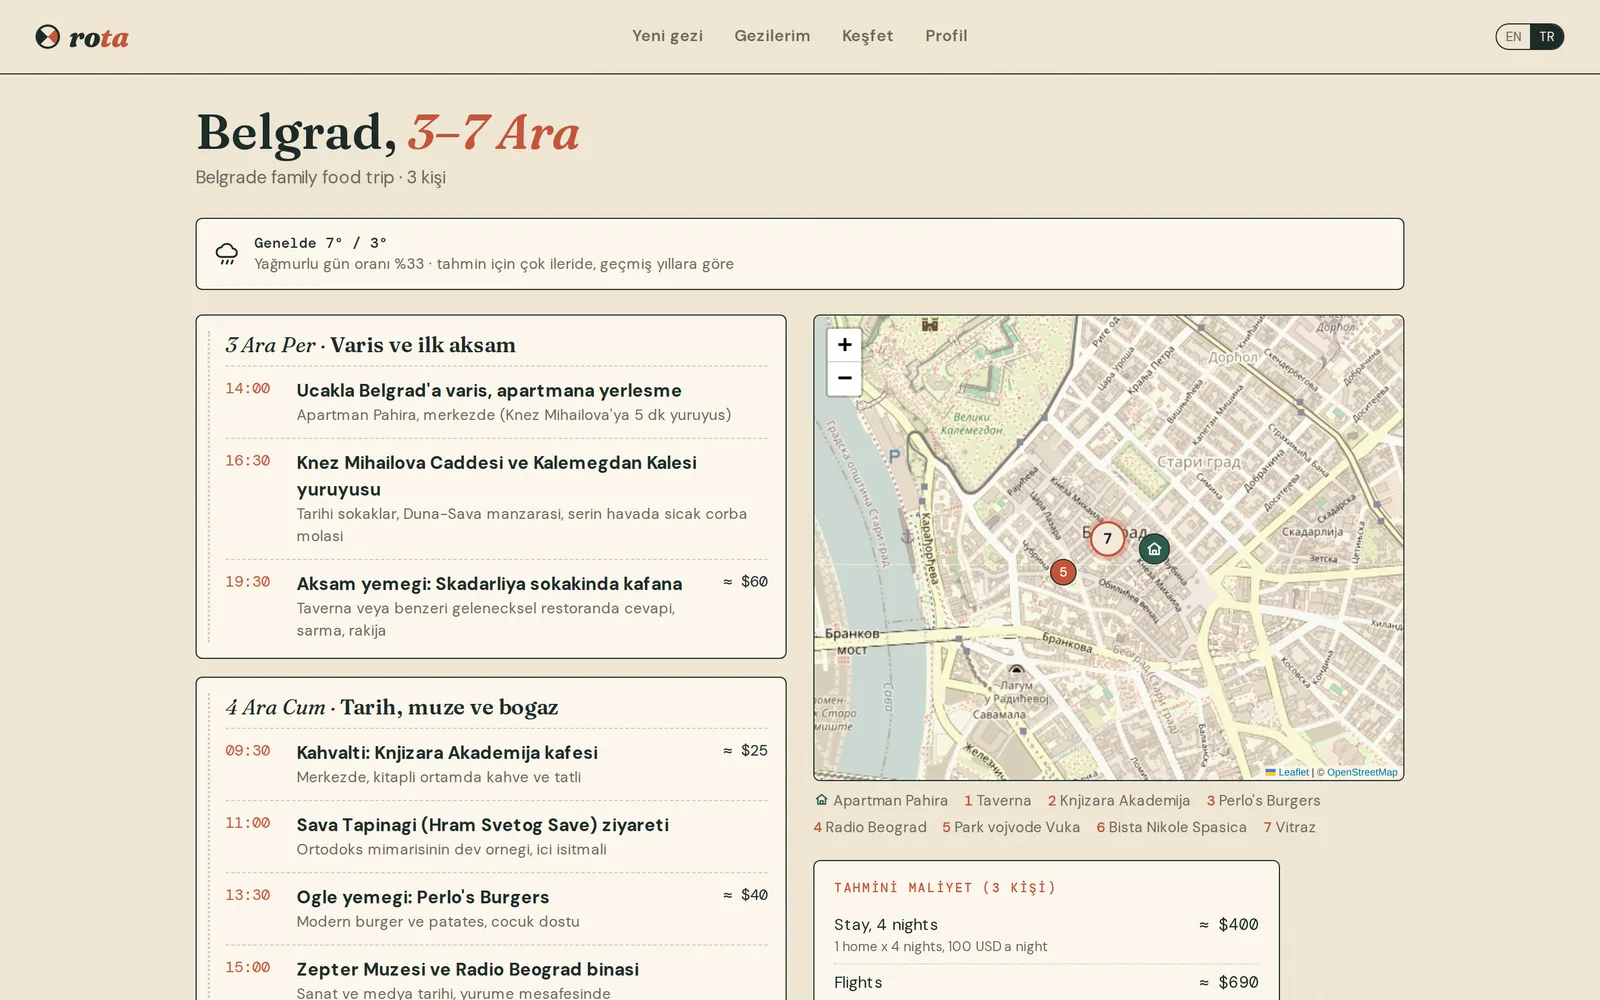
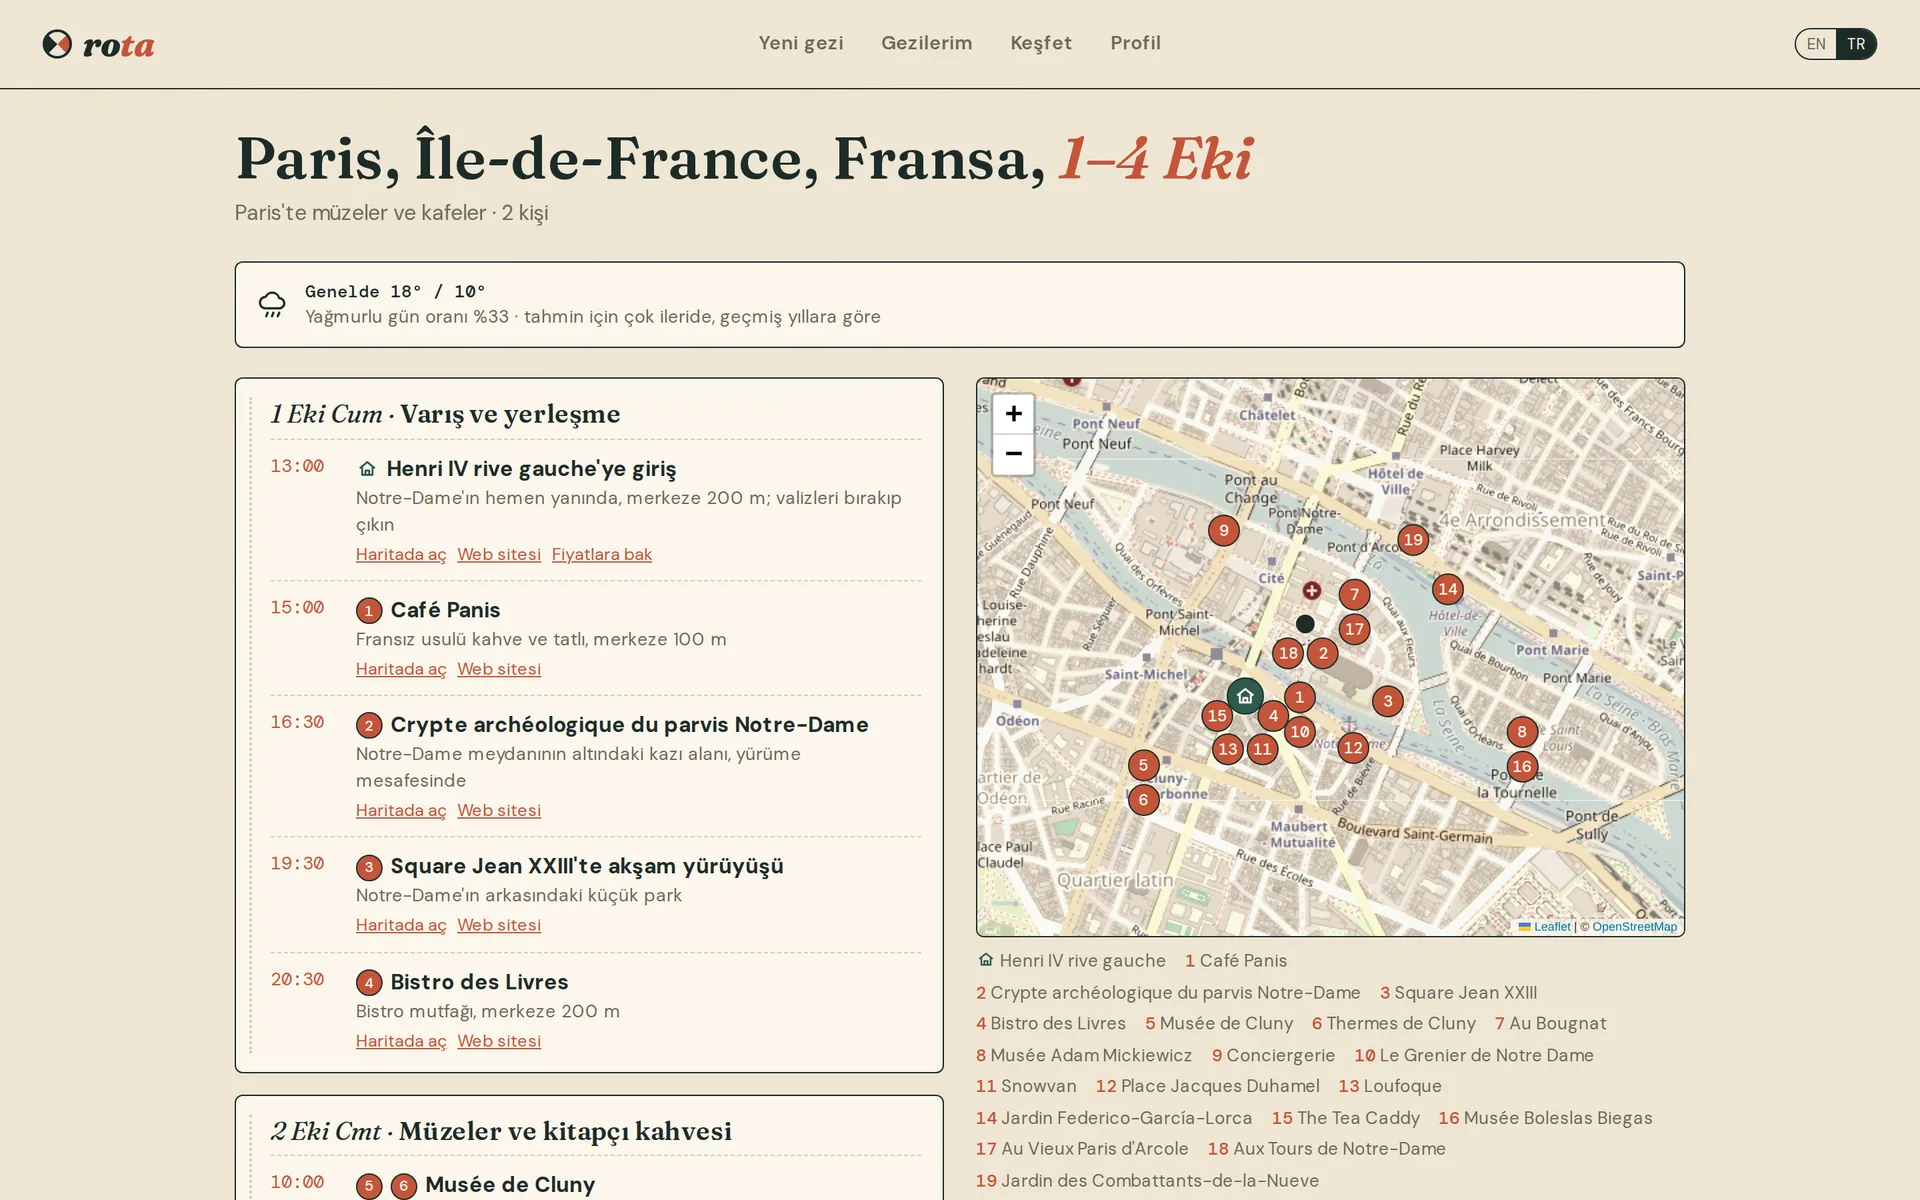
Bring Rota up to today: Paris plan shot, new features, test and PR counts

Changed region(s): [[0.125, 0.31, 0.875, 1.0], [0.125, 0.093, 0.6562, 0.186], [0.1562, 0.217, 0.25, 0.248]]

diff --git a/src/content/rota.js b/src/content/rota.js
@@ -17,11 +17,11 @@ export const rota = {
 
   // Gerçek plan ekranı (paylaşım linkinden, hesapsız görünüm).
   screen: {
-    lead: 'Rota’nın kaydettiği gerçek bir gezi, salt okunur paylaşım linkinden. Yurt dışı, uçakla, 4 gece.',
+    lead: 'Bugün planlanıp kaydedilen gerçek bir gezi, salt okunur paylaşım linkinden. Yer belli olduğu için seçenek sorulmadı, tek mesajda plan geldi.',
     notes: [
-      'Gün gün, saatli plan. Her satır gerçek bir yer; fiyatı olanlar yanında.',
-      'Haritada konaklama (ev) ve planlanan yerler numaralı. Veriler OpenStreetMap ve Geoapify’dan.',
-      'Hava: tarih çok ilerideyse geçmiş yılların ortalaması. Maliyet kalem kalem, kişi sayısıyla.',
+      'Gün gün, saatli plan. Her satırdaki numara haritadaki numarayla aynı; otel ev işaretiyle.',
+      'Her yerin altında linkler: haritada aç, varsa web sitesi, otelde fiyatlara bak. Veriler OpenStreetMap ve Geoapify’dan.',
+      'Hava: tarih çok ilerideyse geçmiş yılların ortalaması. Aşağıda maliyet kalem kalem, kişi sayısıyla.',
     ],
   },
 
@@ -38,11 +38,15 @@ export const rota = {
 
   features: [
     { icon: 'Route', title: 'Seçenek → plan → bütçe', tag: 'Çekirdek', text: 'Önce kartpostal gibi seçenekler, sonra gün gün plan ve kalem kalem fiş.' },
+    { icon: 'Zap', title: 'Yer belliyse direkt plan', tag: 'Yeni', text: '“Amasya’ya gidiyoruz” dersen seçenek beklemeden aynı turda plan ve bütçe.' },
+    { icon: 'MapPin', title: 'Numaralı harita ve linkler', tag: 'Yeni', text: 'Plandaki her yer haritada aynı numarayla; haritada aç, web sitesi, fiyat linki.' },
+    { icon: 'Signpost', title: 'Birkaç şehirli rota', tag: 'Yeni', text: 'Kapadokya → Antalya gibi gezilerde her şehrin gecesi, oteli ve arası ayrı hesaplanıyor.' },
     { icon: 'UsersRound', title: 'Arkadaşlarla planlama', tag: 'Birlikte', text: 'Davet linkiyle aynı sohbete gir, seçeneklere oy ver.' },
     { icon: 'Receipt', title: 'Masraf bölüşme', tag: 'Birlikte', text: '“600 TL odun aldım” yaz, kim kime ne borçlu hesaplansın.' },
     { icon: 'CloudRain', title: 'Hava uyarısı', tag: 'Otomatik', text: 'Yaklaşan gezinin tahmini değişirse haber verir.' },
     { icon: 'Brain', title: 'Hafıza', tag: 'Agent', text: 'Nereden çıktığını, neyi sevdiğini hatırlar; Profil’de görünür.' },
-    { icon: 'TrainFront', title: 'Tren ve otobüs', tag: 'Ulaşım', text: 'Arabanın yanında toplu taşıma seçenekleri ve feribot.' },
+    { icon: 'TrainFront', title: 'Tren, otobüs, feribot', tag: 'Ulaşım', text: 'Arabanın yanında toplu taşıma; uzaksa uçak, yolda feribot varsa onun ücreti de fişte.' },
+    { icon: 'RefreshCw', title: 'Canlı güncelleme', tag: 'Yeni', text: 'Arkadaşın aynı sohbete yazınca sayfayı yenilemeden görüyorsun.' },
     { icon: 'Link', title: 'Paylaşım linki', tag: 'Paylaş', text: 'Hesabı olmayana salt okunur plan: harita, hava, maliyet.' },
     { icon: 'Languages', title: 'Türkçe / İngilizce', tag: 'Arayüz', text: 'Her ekran iki dilde; agent da yazdığın dilde cevap verir.' },
   ],
@@ -66,8 +70,8 @@ export const rota = {
 
   stats: [
     { value: 409, label: 'commit' },
-    { value: 29, label: 'PR' },
-    { value: 929, label: 'test', note: '550 agent · 353 web · 26 E2E' },
+    { value: 30, label: 'PR' },
+    { value: 1017, label: 'test', note: '637 agent · 354 web · 26 E2E' },
     { value: 21, label: 'aşama' },
   ],
 

diff --git a/src/sections/shared/FeatureCard.jsx b/src/sections/shared/FeatureCard.jsx
@@ -1,6 +1,6 @@
 import {
   Brain, CalendarHeart, ChartColumn, Clapperboard, CloudRain, Import, Languages, Link, ListOrdered,
-  Receipt, Route, Rss, Scale, TrainFront, Users, UsersRound, Vibrate,
+  MapPin, Receipt, RefreshCw, Route, Rss, Scale, Signpost, TrainFront, Users, UsersRound, Vibrate, Zap,
 } from 'lucide-react'
 import { Reveal } from '../../components/ui/Reveal'
 import { Tag } from '../../components/ui/Tag'
@@ -8,7 +8,7 @@ import { Tag } from '../../components/ui/Tag'
 // Only the icons the content uses, so the bundle stays small.
 const icons = {
   Brain, CalendarHeart, ChartColumn, Clapperboard, CloudRain, Import, Languages, Link, ListOrdered,
-  Receipt, Route, Rss, Scale, TrainFront, Users, UsersRound, Vibrate,
+  MapPin, Receipt, RefreshCw, Route, Rss, Scale, Signpost, TrainFront, Users, UsersRound, Vibrate, Zap,
 }
 
 const tones = {

diff --git a/src/sections/Rota.jsx b/src/sections/Rota.jsx
@@ -143,12 +143,12 @@ export function Rota() {
         </div>
 
         <div className="mt-32">
-          <SubHeading accent="Belgrad, 3 kişi.">Gerçek bir plan:</SubHeading>
+          <SubHeading accent="Paris, 2 kişi.">Gerçek bir plan:</SubHeading>
           <Reveal delay={0.1}>
             <p className="mt-4 max-w-2xl text-muted">{rota.screen.lead}</p>
           </Reveal>
           <div className="mt-10">
-            <ScreenFrame src="./shots/rota-plan.webp" url="rota · paylaşım linki" alt="Rota'nın Belgrad planı" glow="#ffb347" />
+            <ScreenFrame src="./shots/rota-plan.webp" url="rota · paylaşım linki" alt="Rota'nın Paris planı" glow="#ffb347" />
           </div>
           <Callouts items={rota.screen.notes} tone="text-sun" />
         </div>

diff --git a/src/content/closing.js b/src/content/closing.js
@@ -3,7 +3,7 @@ export const totals = [
   { value: 3.5, decimals: 1, label: 'hafta' },
   { value: 2, label: 'canlı proje' },
   { value: 597, label: 'commit' },
-  { value: 1412, label: 'otomatik test' },
+  { value: 1500, label: 'otomatik test' },
   { value: 8, label: 'kurs ve bölüm', note: '3 Bazaar bölümü · 5 Academy kursu' },
 ]
 
@@ -68,7 +68,7 @@ export const next = [
     items: [
       'Restoranları harita bilgisinden puanlayıp sıralamak',
       'Plan yazılırken iskeleti hemen göstermek (günler, hava, harita)',
-      'Plandaki her yere harita işareti ve link',
+      'Yurt dışında tren ve otobüs saatleri',
     ],
   },
   {

diff --git a/src/content/journey.js b/src/content/journey.js
@@ -59,8 +59,8 @@ export const journey = [
   {
     when: '2 Kasım',
     tag: 'Hız',
-    title: 'Plan 108 sn → 65 sn',
-    text: 'Bozuk JSON onarımı, yer belliyse direkt plan, takılan turlar için zaman sınırı ve yedek model.',
+    title: 'Bir günde 10 PR',
+    text: 'Plan 108 sn → 65 sn. Bozuk JSON onarımı, yer belliyse direkt plan, zaman sınırı ve yedek model, canlı güncelleme, numaralı harita ve linkler, birkaç şehirli rotalar.',
     accent: 'sun',
   },
   {
